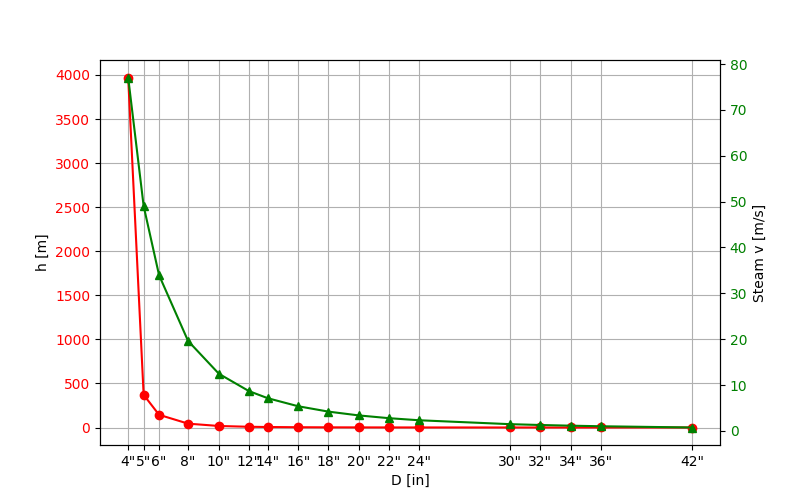
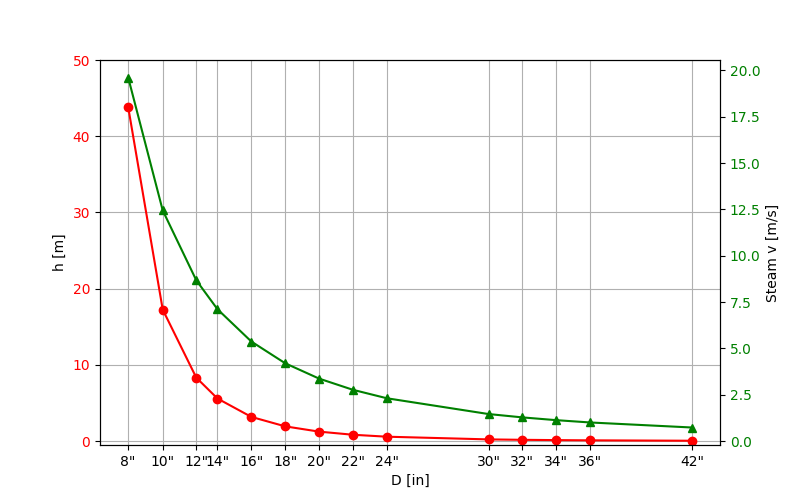
Fixed a plot

diff --git a/scripts/plotter.py b/scripts/plotter.py
@@ -61,17 +61,19 @@ def plots_point_b():
     
     # h and steam v plot
     plt.figure(figsize=(8,5))
-    plt.plot(D_pipes, computed_h_b, "ro-", label="Minimum h")
-    plt.xticks(D_pipes, Pipe_names)
+    plt.plot(D_pipes[3:], computed_h_b[3:], "ro-", label="Minimum h")
+    plt.xticks(D_pipes[3:], Pipe_names[3:])
     plt.yticks(color='r')
     plt.xlabel("D [in]")
     plt.ylabel("h [m]")
     plt.grid()
+    plt.ylim((-0.5,50)) 
     
     plt.twinx()
-    plt.plot(D_pipes, v_steam_b, 'g^-', label='Steam v')
+    plt.plot(D_pipes[3:], v_steam_b[3:], 'g^-', label='Steam v')
     plt.yticks(color='g')
-    plt.ylabel("Steam v [m/s]")   
+    plt.ylabel("Steam v [m/s]")  
+
 
     # h diff plot
     # Plotting the relative difference from the results computed in point a
